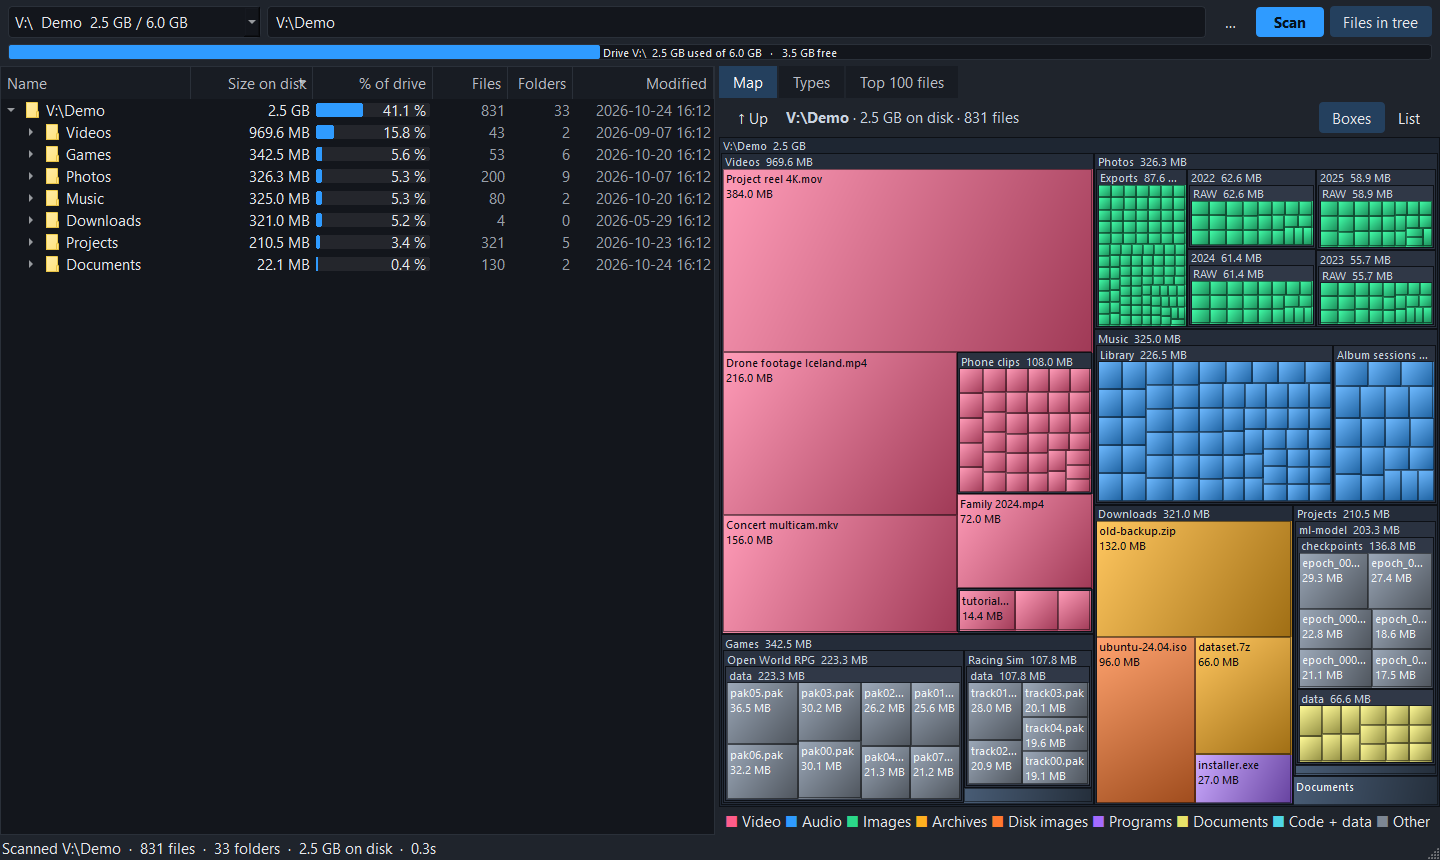
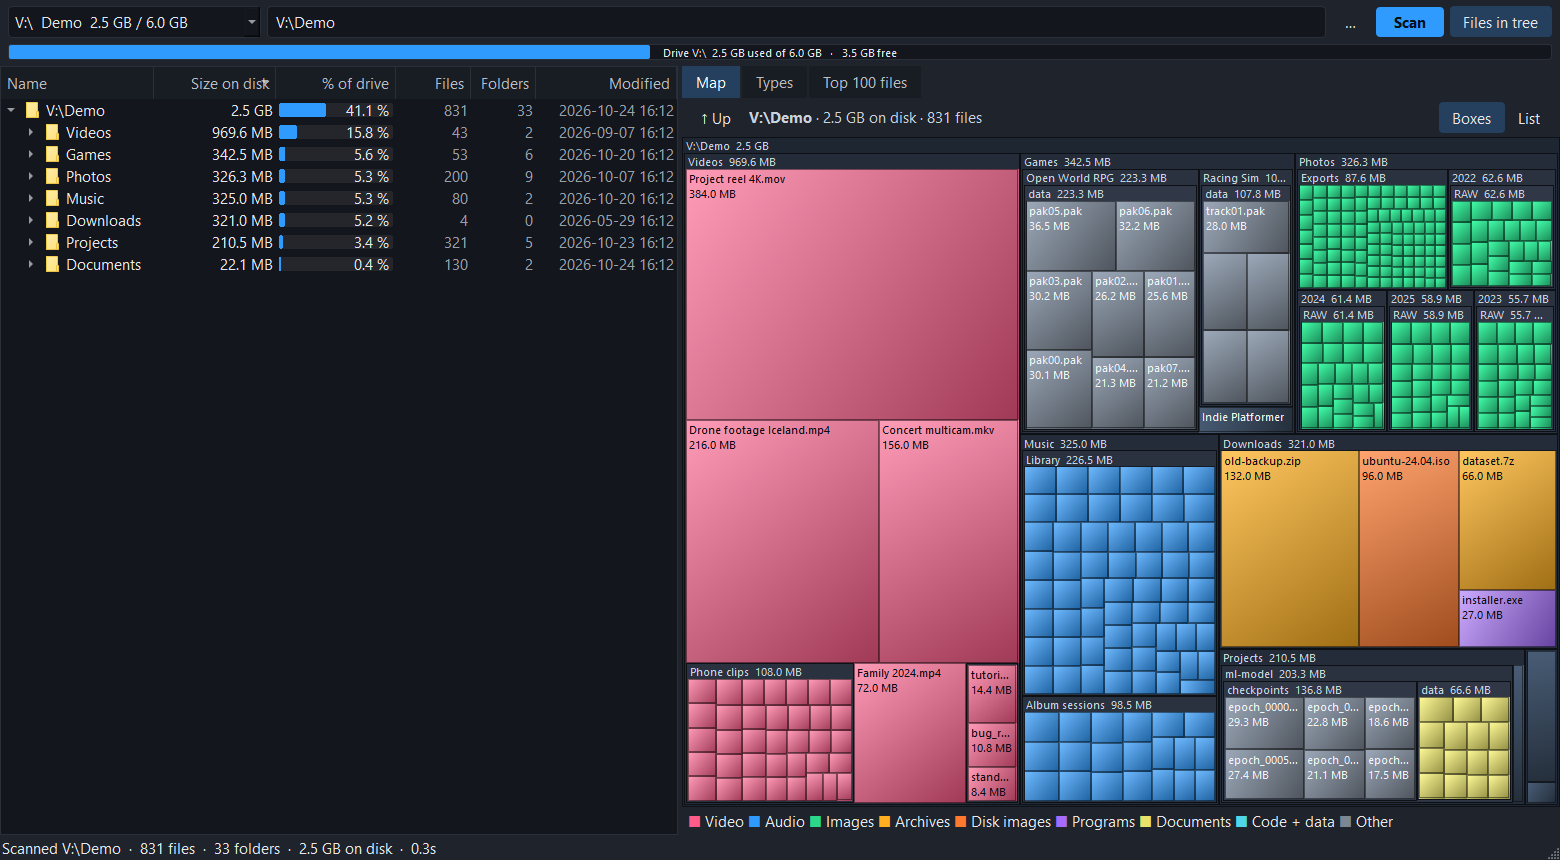
Top 100 table: Modified keeps a whole date, the Folder column gets the rest
Review of the Top 100 widths: the Modified column's width was read after the last
column had been stretched, and a scrollbar's width was reserved for tables that never
get one, so Folder paths were cut while Modified had room to spare.

- fit_top_columns(): Modified is its content width (or a whole date), not the
  stretched width; the scrollbar is reserved only when the rows overflow.
- A test sizes the table to exactly what its four columns need (Modified set to a
  stretched width first, as Qt does) and checks that no folder path is cut and that
  a narrower table takes the difference from the Folder column. It fails on the
  old formula.
- tools/screenshots.py: a 1560 px window with a wider right panel, so the README
  shots show whole folder paths. Retaken.

diff --git a/bigfoot.py b/bigfoot.py
@@ -824,6 +824,22 @@ class TreeMap(QWidget):
             self.zoom.emit(d)
 
 
+def fit_top_columns(t, mod_col, vw=None):
+    """Column widths of the Top 100 table, after resizeColumnsToContents: the Folder column takes what is left once
+    Modified has room for a whole date (never cut at "16:..."); a very long file name can't push the rest out; the
+    width of the vertical scrollbar of a long table is kept free. vw: the width to fit (default: the table's own)."""
+    if vw is None:
+        vw = t.viewport().width()
+        if (not t.verticalScrollBar().isVisible() and  # (a long table is about to get one)
+                t.rowCount() * t.verticalHeader().defaultSectionSize() > t.viewport().height()):
+            vw -= t.style().pixelMetric(QStyle.PM_ScrollBarExtent, None, t)
+    t.setColumnWidth(0, min(t.columnWidth(0), int(vw * 0.45)))
+    mod = max(t.sizeHintForColumn(3), mod_col)  # (not columnWidth: the last column was stretched)
+    room = vw - t.columnWidth(0) - t.columnWidth(1) - mod
+    t.setColumnWidth(2, max(120, min(t.columnWidth(2), 420, room)))
+    t.setColumnWidth(3, mod)
+
+
 # ---------------------------------------------------------------- window
 class Window(QMainWindow):
     def __init__(self, start=None):
@@ -1474,15 +1490,7 @@ class Window(QMainWindow):
             t.setSortingEnabled(True)
             t.sortItems(1, Qt.DescendingOrder)
             t.resizeColumnsToContents()
-            # the Folder column takes what is left once Modified has room for a whole date (never cut at "16:...")
-            vw = t.viewport().width()
-            if not t.verticalScrollBar().isVisible():  # (a long table is about to get one: keep its width free)
-                vw -= t.style().pixelMetric(QStyle.PM_ScrollBarExtent, None, t)
-            t.setColumnWidth(0, min(t.columnWidth(0), int(vw * 0.45)))  # (a very long file name must not push the rest out)
-            mod = max(t.columnWidth(3), self.mod_col)
-            room = vw - t.columnWidth(0) - t.columnWidth(1) - mod
-            t.setColumnWidth(2, max(120, min(t.columnWidth(2), 420, room)))
-            t.setColumnWidth(3, mod)
+            fit_top_columns(t, self.mod_col)
 
     def top_menu(self, pos):
         rows = sorted({i.row() for i in self.top.selectedIndexes()})

diff --git a/tests/app/test_list_view.py b/tests/app/test_list_view.py
@@ -147,6 +147,30 @@ def test_the_top_100_table_shows_a_whole_modified_date(window, work):
     widths = [t.columnWidth(c) for c in range(4)]
     assert t.horizontalScrollBar().maximum() == 0, (widths, sum(widths), t.viewport().width())  # nothing sideways
 
+def test_the_top_100_table_gives_the_folder_column_all_it_needs_when_it_just_fits(window, work):
+    h.make_tree(os.path.join(work, "Games", "Open World RPG", "data"), {f"pak{i:02d}.pak": 5000 - i for i in range(6)})
+    h.make_tree(os.path.join(work, "Projects", "ml-model", "checkpoints"), {"epoch_0000.ckpt": 100})
+    h.scan(window, work)
+    window.tabs.setCurrentIndex(2)
+    h.pump(150)
+    t = window.top
+    t.resizeColumnsToContents()  # what the four columns need (Modified: a whole date, not what stretching gave it)
+    h.pump(80)  # (the last column stretches to fill the table)
+    n, s = t.columnWidth(0), t.columnWidth(1)
+    f = min(t.sizeHintForColumn(2), 420)
+    m = max(t.sizeHintForColumn(3), window.mod_col)
+    tight = n + s + f + m + 2  # a table that is just wide enough for all four
+    t.setColumnWidth(3, 400)  # what stretching the last column gives it (the width must not be read as the need)
+    bf.fit_top_columns(t, window.mod_col, vw=tight)
+    assert t.columnWidth(0) == n
+    assert t.columnWidth(2) >= f - 1, (t.columnWidth(2), f)  # no folder path is cut
+    # a little narrower: the Folder column gives way (by exactly what is missing), and Modified keeps its date
+    t.resizeColumnsToContents()
+    h.pump(80)
+    t.setColumnWidth(3, 400)
+    bf.fit_top_columns(t, window.mod_col, vw=tight - 40)
+    assert abs(t.columnWidth(2) - (f - 38)) <= 3, (t.columnWidth(2), f)
+
 def test_a_long_top_100_table_has_no_sideways_scroll_either(window, work):
     h.make_tree(work, {f"file_number_{i:03d}.bin": 1000 + i for i in range(120)})
     h.scan(window, work)

diff --git a/tools/screenshots.py b/tools/screenshots.py
@@ -42,8 +42,9 @@ def main():
         bf.apply_theme(app)
         w = bf.Window()
         w.setAttribute(Qt.WA_DontShowOnScreen, True)
-        w.resize(1440, 860)
+        w.resize(1560, 860)
         w.show()
+        w.split.setSizes([680, 880])  # the panel with the map, list and tables gets the room those need
         w.path.setText(demo)
         w.scan()
         if w.scanner is None:
